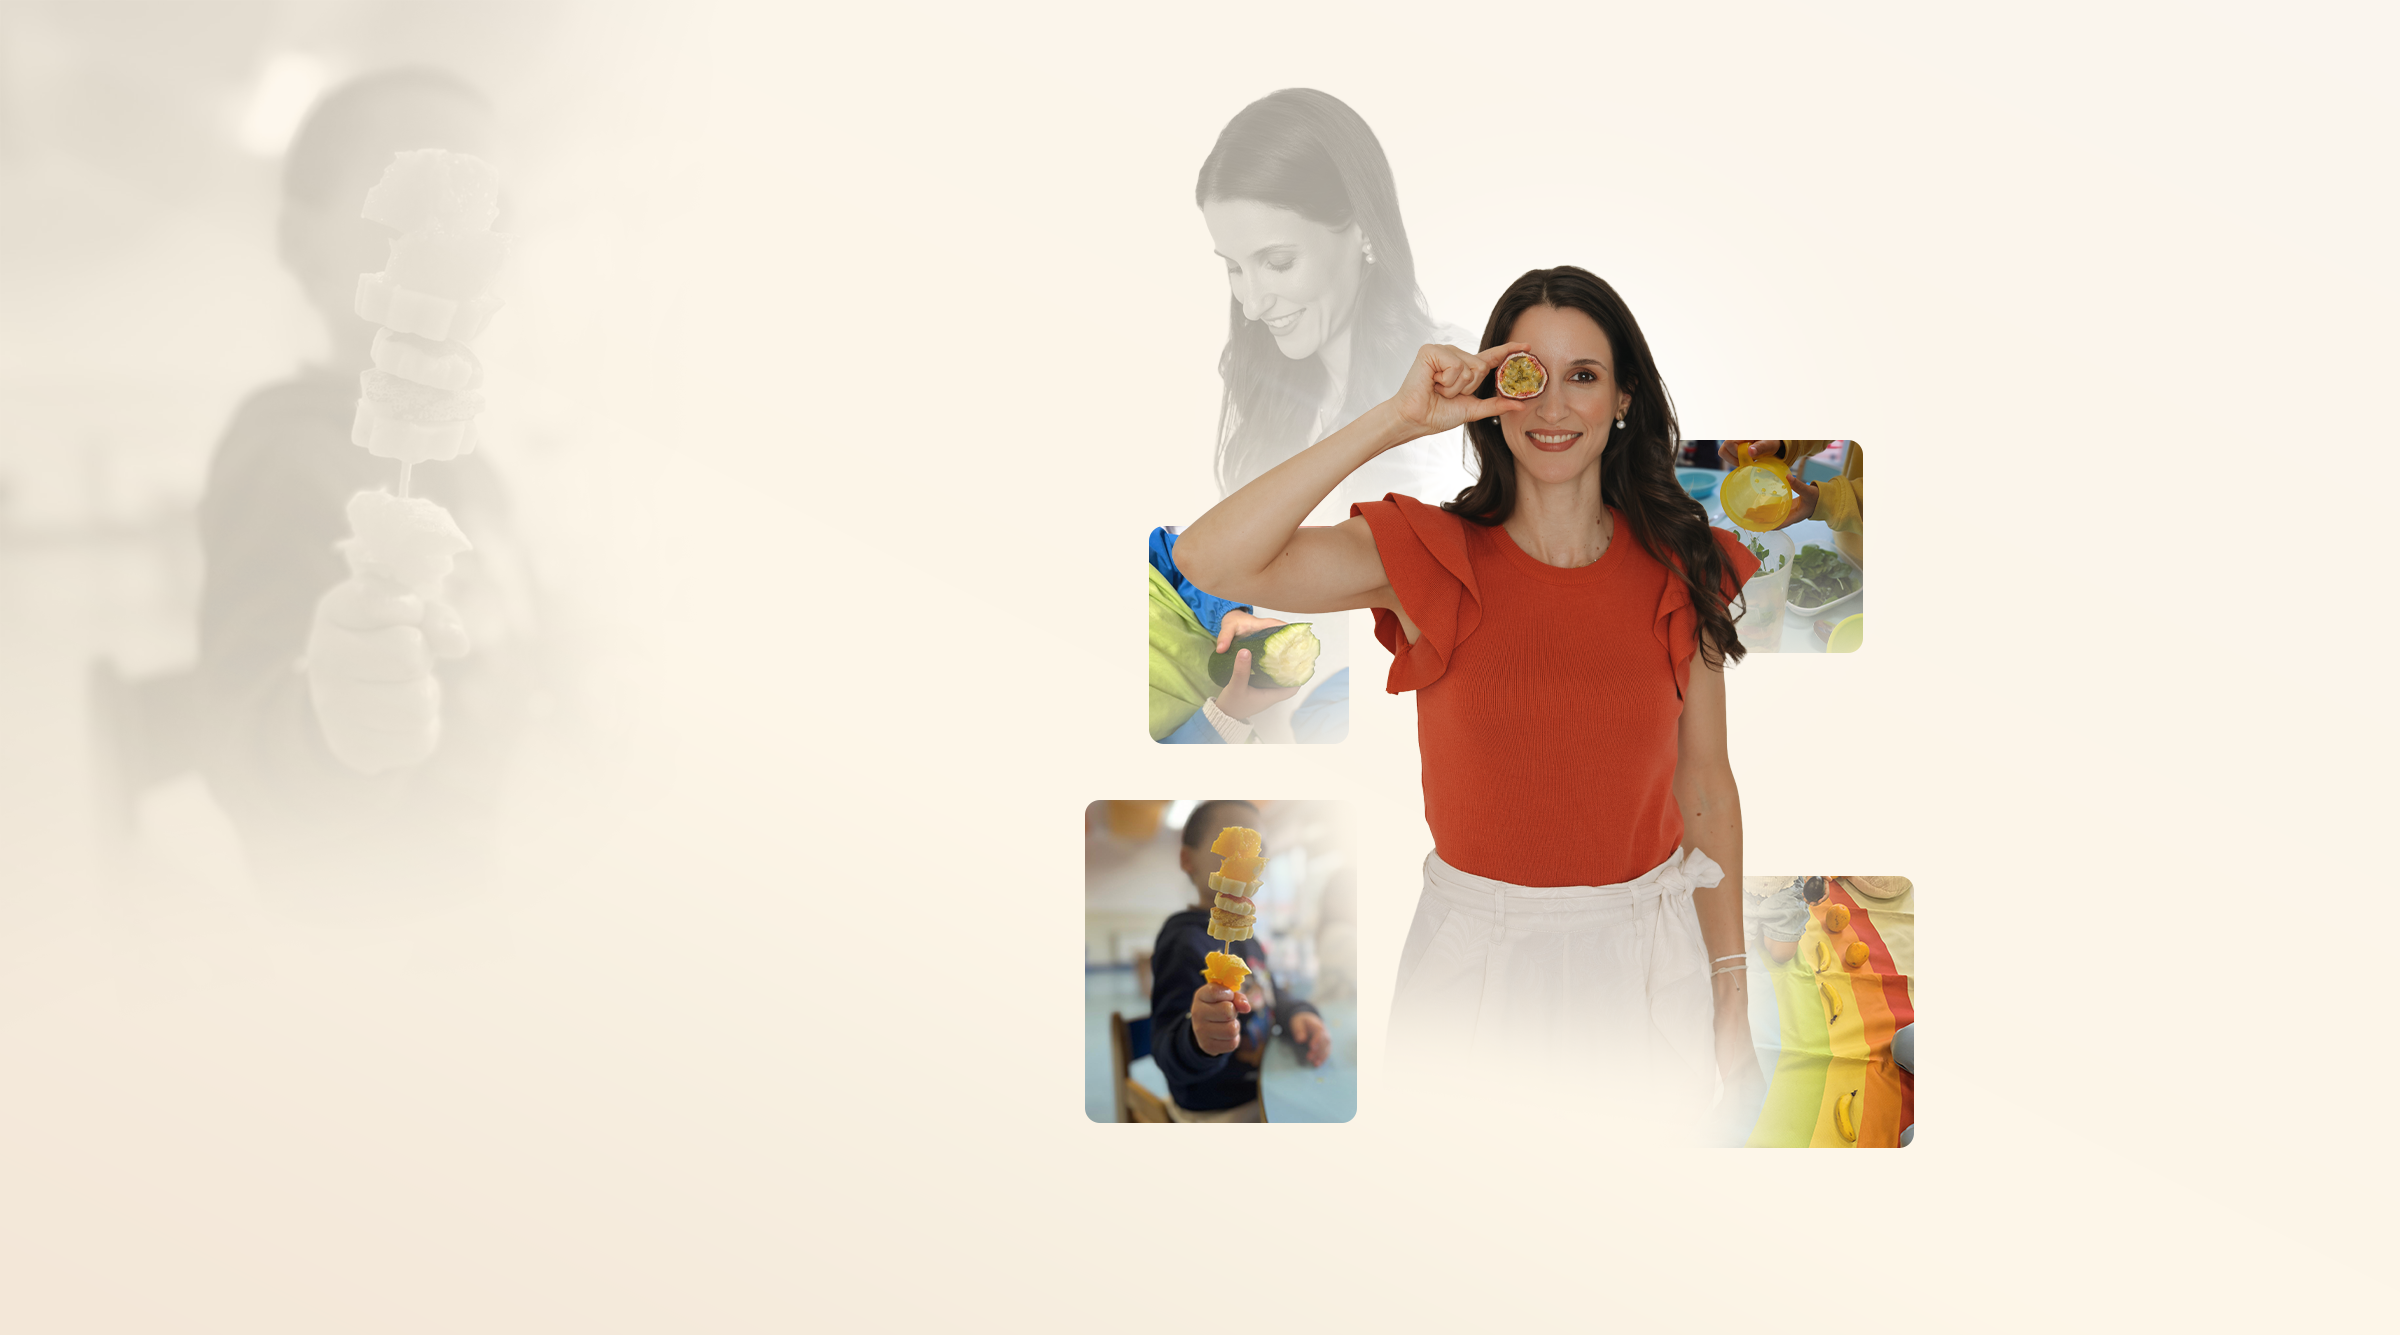
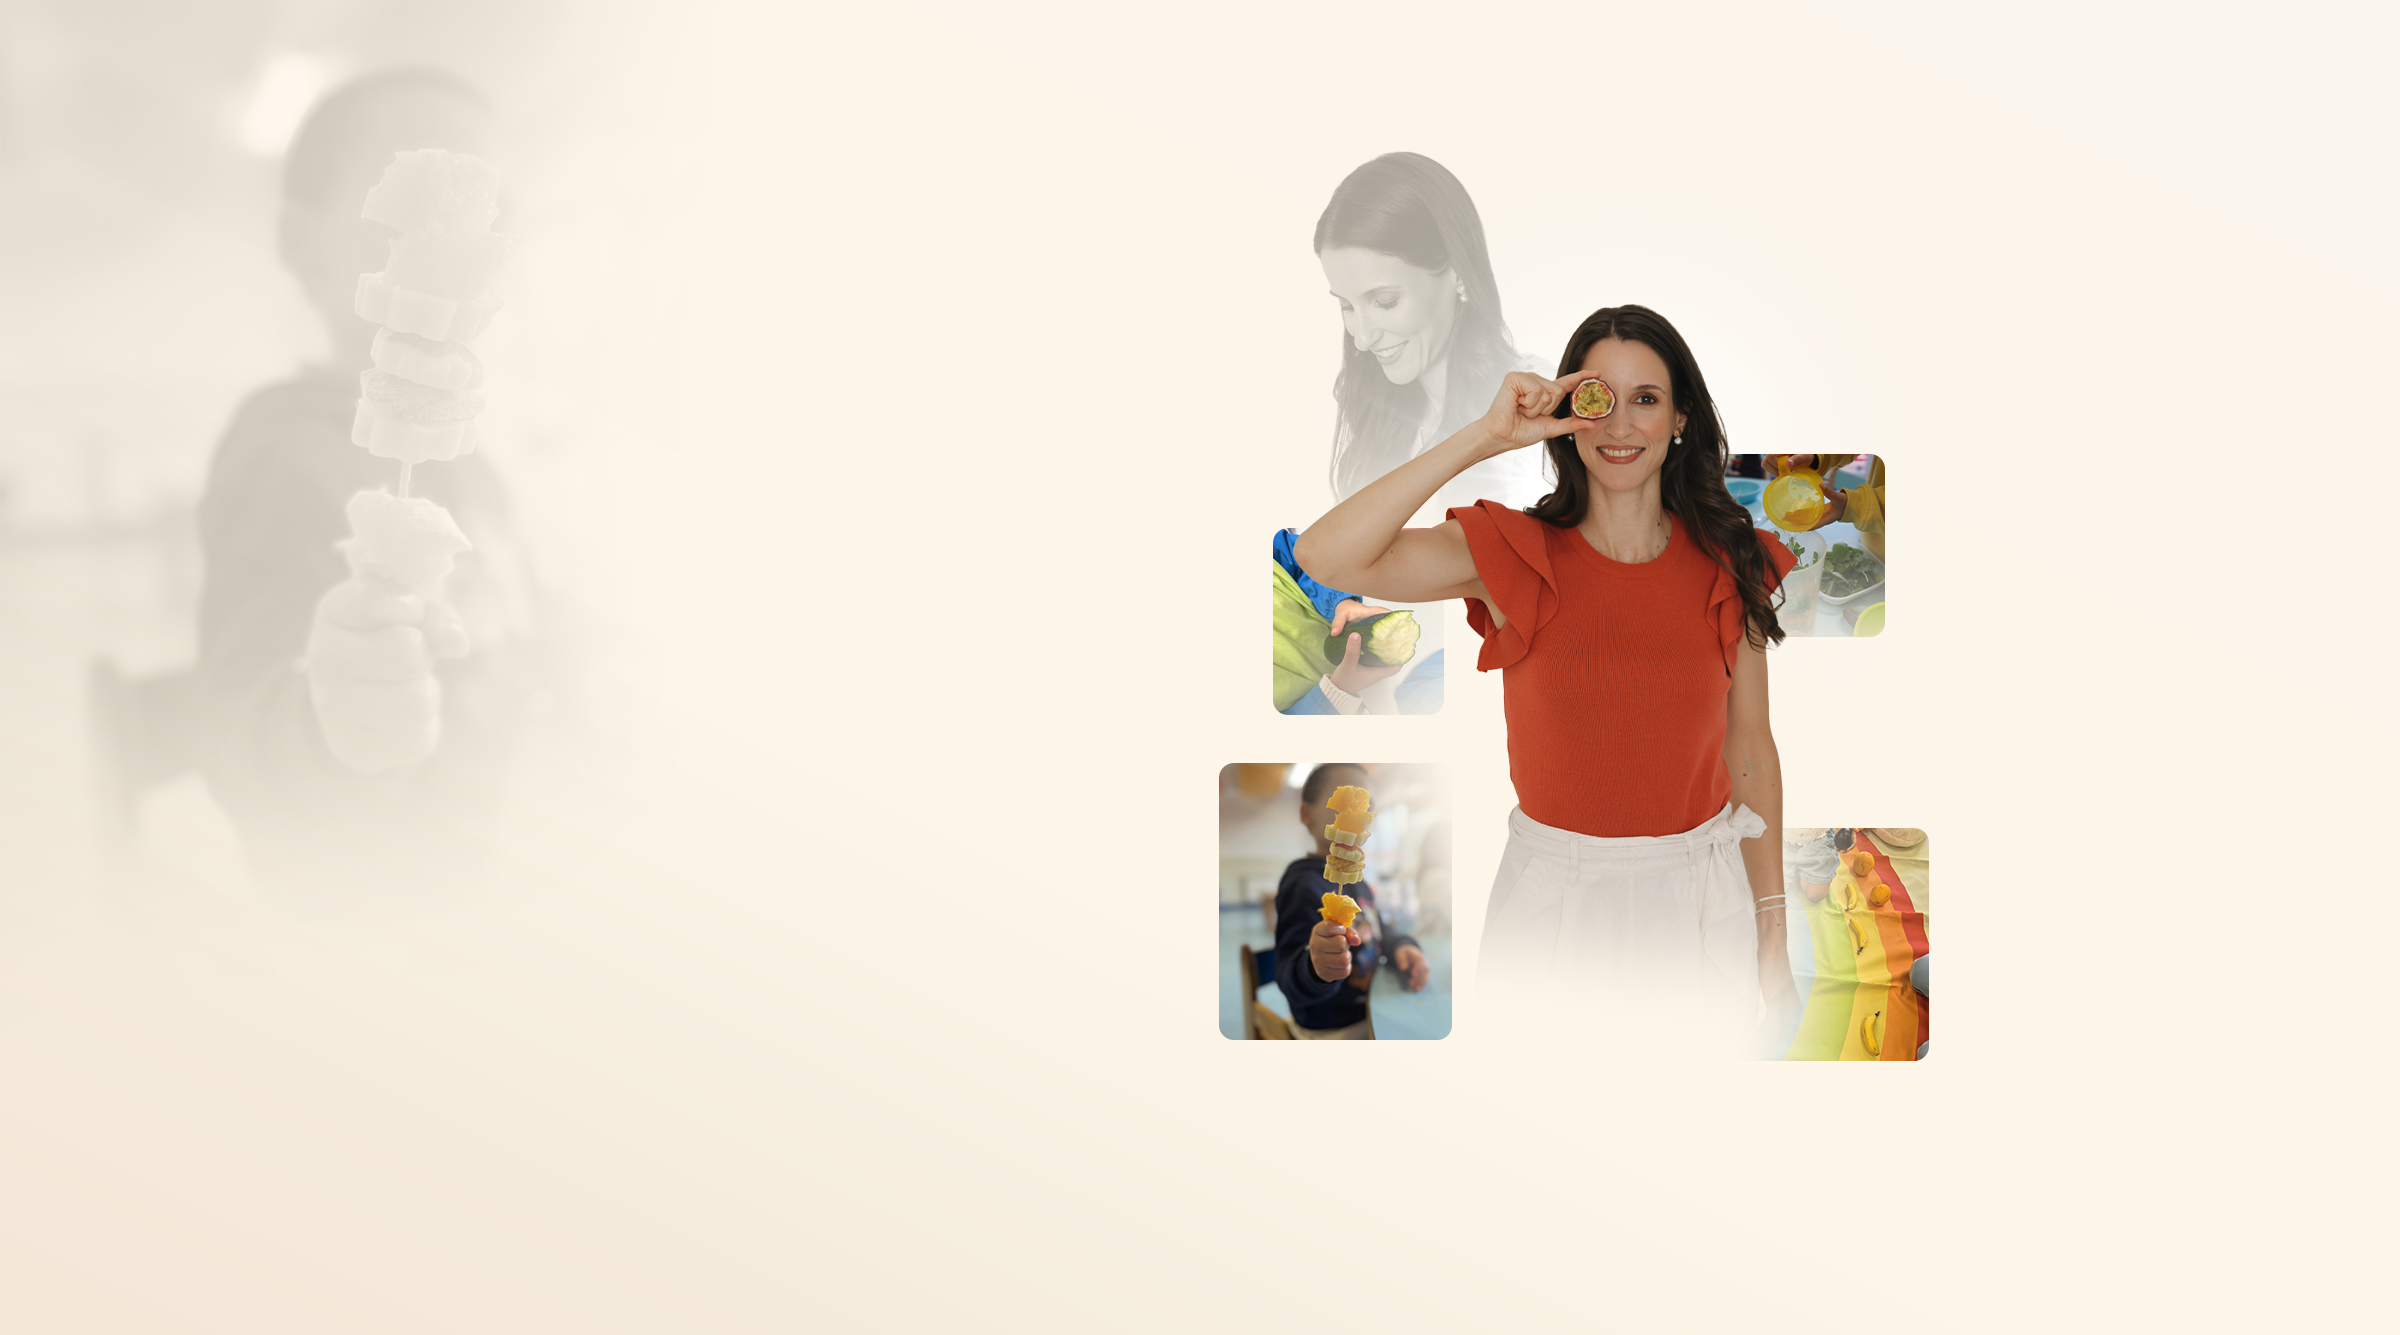
[cx] Restore hero width and background

Changed region(s): [[0.4375, 0.0614, 0.8125, 0.8599]]

diff --git a/index.html b/index.html
@@ -355,10 +355,6 @@ footer::before{content:'';position:absolute;top:0;left:0;width:100%;height:2px;b
 .foot-links a:hover{color:var(--sage-esc)}
 .foot-copy{font-size:12px;color:var(--texto2);line-height:1.6}
 /* RESPONSIVO */
-@media(min-width:961px){
-  .hero h1{max-width:535px}
-  .hero .sub{max-width:500px}
-}
 @media(max-width:960px){
   .hero-grid{grid-template-columns:1fr;gap:38px}
   .hero-visual{order:2;min-height:340px}
